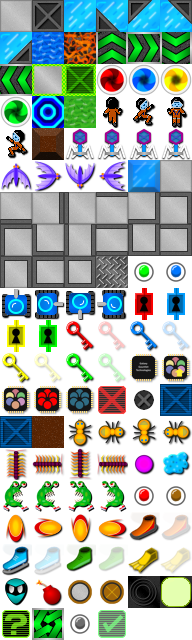
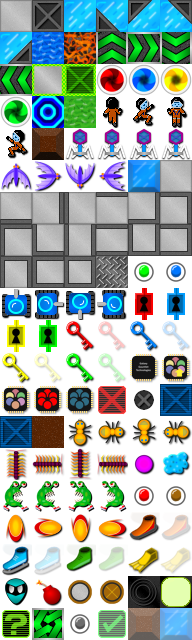
Support XRay (secret eye)

Changed region(s): [[0.6562, 0.9375, 1.0, 1.0]]

diff --git a/scripts/MapEntities/Tiles/BlueWallTile.cs b/scripts/MapEntities/Tiles/BlueWallTile.cs
@@ -22,6 +22,19 @@ namespace GalaxyGauntlet.scripts.MapEntities
             }
         }
 
-        public override Vector2I TextureCoordinate => Constants.SpriteCoordinates.BlueWall;
+        public override Vector2I TextureCoordinate
+        {
+            get
+            {
+                if(IsReal)
+                {
+                    return Constants.SpriteCoordinates.BlueWall;
+                }
+
+                return GameData.XRayMode
+                    ? Constants.SpriteCoordinates.Floor
+                    : Constants.SpriteCoordinates.BlueWall;
+            }
+        }
     }
 }

diff --git a/scripts/MapEntities/Mobs/DirtBlockEntity.cs b/scripts/MapEntities/Mobs/DirtBlockEntity.cs
@@ -8,8 +8,15 @@ namespace GalaxyGauntlet.scripts.MapEntities
 
         public override string Name => "Dirt Block";
 
-        public override Vector2I TextureCoordinate => Constants.SpriteCoordinates.DirtBlock;
-
+        public override Vector2I TextureCoordinate
+        {
+            get
+            {
+                return GameData.XRayMode
+                    ? Constants.SpriteCoordinates.DirtBlock_XRay
+                    : Constants.SpriteCoordinates.DirtBlock;
+            }
+        }
 
         public override Vector2I ProposeMove(Vector2I direction)
         {

diff --git a/scripts/MapEntities/Mobs/IceBlockEntity.cs b/scripts/MapEntities/Mobs/IceBlockEntity.cs
@@ -8,6 +8,14 @@ namespace GalaxyGauntlet.scripts.MapEntities
 
         public override string Name => "Ice Block";
 
-        public override Vector2I TextureCoordinate => Constants.SpriteCoordinates.IceBlock;
+        public override Vector2I TextureCoordinate
+        {
+            get
+            {
+                return GameData.XRayMode
+                    ? Constants.SpriteCoordinates.IceBlock_XRay
+                    : Constants.SpriteCoordinates.IceBlock;
+            }
+        }
     }
 }

diff --git a/scripts/MapEntities/Tiles/InvisibleWallTile.cs b/scripts/MapEntities/Tiles/InvisibleWallTile.cs
@@ -8,6 +8,14 @@ namespace GalaxyGauntlet.scripts.MapEntities
 
         public override string Name => "Invisible Wall";
 
-        public override Vector2I TextureCoordinate => Constants.SpriteCoordinates.Floor;
+        public override Vector2I TextureCoordinate
+        {
+            get
+            {
+                return GameData.XRayMode
+                    ? Constants.SpriteCoordinates.Wall
+                    : Constants.SpriteCoordinates.Floor;
+            }
+        }
     }
 }

diff --git a/scripts/MapEntities/Tiles/HiddenWallTile.cs b/scripts/MapEntities/Tiles/HiddenWallTile.cs
@@ -8,6 +8,14 @@ namespace GalaxyGauntlet.scripts.MapEntities
 
         public override string Name => "Hidden Wall";
 
-        public override Vector2I TextureCoordinate => Constants.SpriteCoordinates.Floor;
+        public override Vector2I TextureCoordinate
+        {
+            get
+            {
+                return GameData.XRayMode
+                    ? Constants.SpriteCoordinates.Wall
+                    : Constants.SpriteCoordinates.Floor;
+            }
+        }
     }
 }

diff --git a/GalaxyGauntlet.Common/Constants.cs b/GalaxyGauntlet.Common/Constants.cs
@@ -295,6 +295,8 @@ namespace GalaxyGauntlet.Common
             public static Vector2I ForceFloor_R = new(1, 19);
             public static Vector2I GrayButton = new(2, 19);
             public static Vector2I Socket_Open = new(3, 19);
+            public static Vector2I DirtBlock_XRay = new(4, 19);
+            public static Vector2I IceBlock_XRay = new(5, 19);
         }
 
         public static class DeathMessages

diff --git a/scripts/GameData/LevelData.cs b/scripts/GameData/LevelData.cs
@@ -54,6 +54,15 @@ namespace GalaxyGauntlet.scripts
         }
 
 
+        public static bool XRayMode
+        {
+            get
+            {
+                return PlayerHasGameItem(Constants.ByteCodes.Entities.SecretEye);
+            }
+        }
+
+
         public static int TimerDisplay
         {
             get
